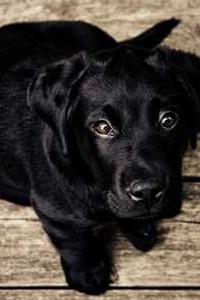
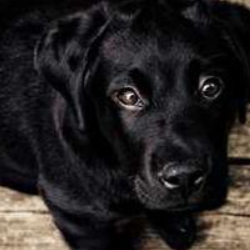
adds image.cover

diff --git a/controllers/users/updateAvatar.js b/controllers/users/updateAvatar.js
@@ -1,6 +1,7 @@
 const path = require("path");
 const fs = require("fs").promises;
 const User = require("../../models/users");
+const Jimp = require("jimp");
 
 const avatarsDirPath = path.join(__dirname, "..", "..", "public", "avatars");
 
@@ -9,6 +10,16 @@ async function updateAvatar(req, res) {
   const { path: tempPath, originalname } = req.file;
   const extension = path.extname(originalname);
   const filename = `${_id}${extension}`;
+
+  console.log(tempPath);
+
+  await Jimp.read(tempPath)
+    .then((image) => {
+      image.cover(250, 250).write(tempPath);
+    })
+    .catch((err) => {
+      console.error(err);
+    });
 
   const targetAvatarPath = path.join(avatarsDirPath, filename);
 
